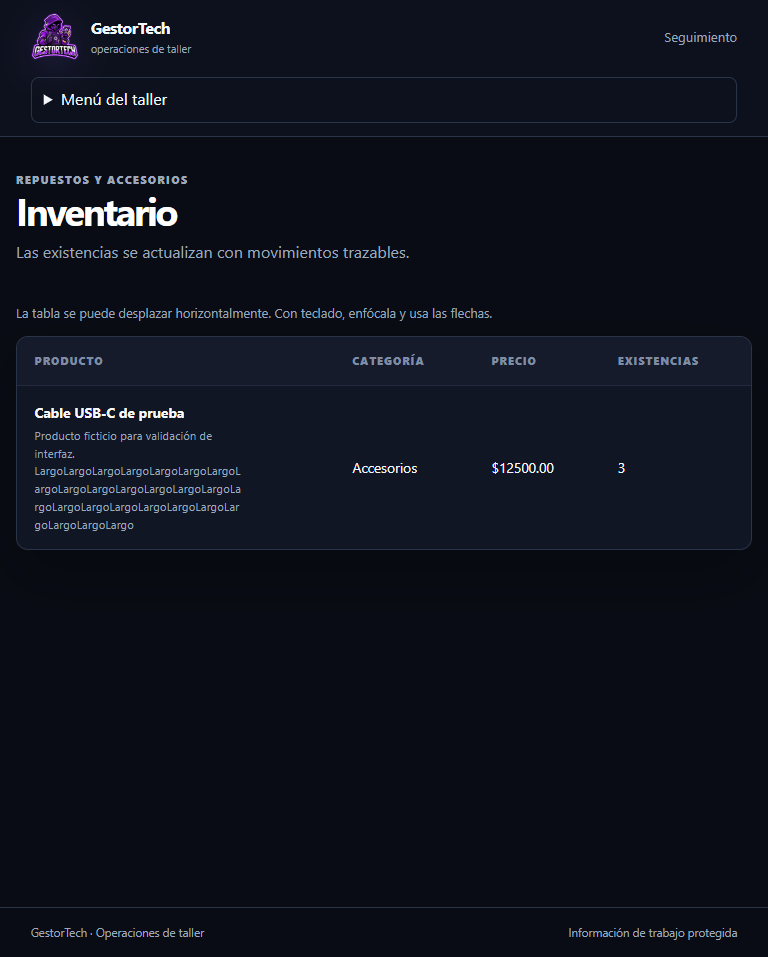
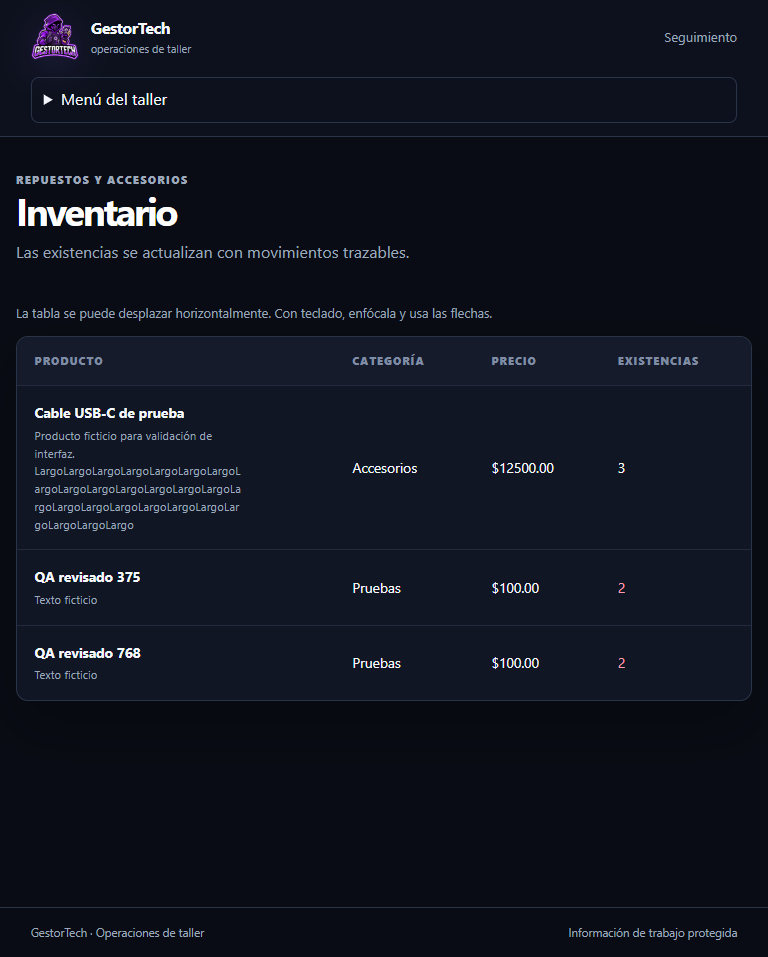
test: verify integrated assistant and repair UI in browser

diff --git a/app/templates/repair_form.html b/app/templates/repair_form.html
@@ -2,15 +2,15 @@
 {% block title %}Nueva reparación · GestorTech{% endblock %}
 {% block content %}
 <section class="page-heading"><div><p class="eyebrow">Servicio técnico</p><h1>Registrar reparación</h1><p>El sistema generará un código privado para que el cliente consulte el avance.</p></div></section>
-<form class="form-panel narrow" method="post">
+<form class="form-panel narrow" method="post" aria-describedby="form-feedback">
   <input type="hidden" name="_csrf_token" value="{{ csrf_token() }}">
-  <label for="device">Equipo</label><input id="device" name="device" required maxlength="160" placeholder="Ej. Portátil Lenovo ThinkPad">
-  <label for="issue">Problema reportado</label><textarea id="issue" name="issue" rows="4" required maxlength="2000" placeholder="Describe el motivo de ingreso"></textarea>
+  <label for="device">Equipo</label><input id="device" name="device" required maxlength="160" placeholder="Ej. Portátil Lenovo ThinkPad" value="{{ request.form.get('device','') }}">
+  <label for="issue">Problema reportado</label><textarea id="issue" name="issue" rows="4" required maxlength="2000" placeholder="Describe el motivo de ingreso">{{ request.form.get('issue','') }}</textarea>
   {% if current_user()['role']=='admin' %}
   <label for="assigned_to">Técnico responsable</label>
   <select id="assigned_to" name="assigned_to" required {% if not technicians %}disabled aria-describedby="technician-help"{% endif %}>
-    <option value="" disabled selected>Selecciona un técnico</option>
-    {% for technician in technicians %}<option value="{{ technician.id }}">{{ technician.name }}</option>{% endfor %}
+    <option value="" disabled {% if not request.form.get('assigned_to') %}selected{% endif %}>Selecciona un técnico</option>
+    {% for technician in technicians %}<option value="{{ technician.id }}" {% if request.form.get('assigned_to') == technician.id|string %}selected{% endif %}>{{ technician.name }}</option>{% endfor %}
   </select>
   {% if not technicians %}<p id="technician-help" class="callout">Necesitas un técnico activo para registrar una reparación. <a href="{{ url_for('web.user_new') }}">Crear técnico</a></p>{% endif %}
   {% else %}<p class="callout">La reparación quedará asignada a tu usuario técnico.</p>{% endif %}

diff --git a/docs/issues/14-interfaz.md b/docs/issues/14-interfaz.md
@@ -5,7 +5,7 @@
 - La navegación del personal permanece disponible en móvil y tablet mediante un menú nativo `details/summary`, operable con teclado. Reutiliza los enlaces y condiciones de rol del escritorio e incluye cierre de sesión con CSRF.
 - La navegación pública mantiene Catálogo, Seguimiento y Acceso del personal en pantallas estrechas, con ajuste de líneas y estado de página actual.
 - Las tablas de inventario e importación tienen nombre de región, foco por teclado, encabezados semánticos y ayuda para desplazamiento horizontal. El dashboard mantiene su región accesible.
-- Los formularios de alta/edición de productos, creación de usuario y login conservan campos no secretos tras rechazo del backend. Las contraseñas permanecen vacías. Los mensajes de error reciben foco y están asociados al formulario; seguimiento conserva el código y relaciona ayuda/error con el campo.
+- Los formularios de alta/edición de productos, reparación, creación de usuario y login conservan campos no secretos tras rechazo del backend. La reparación conserva su técnico seleccionado y mantiene la asignación obligatoria. Las contraseñas permanecen vacías. Los mensajes de error reciben foco y están asociados al formulario; seguimiento conserva el código y relaciona ayuda/error con el campo.
 - Se ajustaron textos secundarios y el hover del botón principal para mejorar contraste. Los controles pequeños conservan un área vertical de 44 px en móvil/tablet; las cadenas largas no desbordan la pantalla.
 - `prefers-reduced-motion` elimina transiciones/animaciones y el desplazamiento del botón al hacer hover. La mascota local conserva `object-fit: contain` y su archivo original.
 
@@ -27,7 +27,7 @@ Se ejecutó Chromium de Microsoft Edge en modo headless con Playwright disponibl
 
 También se verificó en navegador la despublicación/publicación del producto ficticio y el estado vacío del catálogo.
 
-La suite de regresión de esta base pasó: **46 pruebas y 40 subtests en 32,88 s**, con `python -B -m pytest -q -p no:cacheprovider`. La ejecución local utilizó Python 3.12.14 incluido en el entorno de herramientas con las dependencias existentes del proyecto; el stack aprobado sigue siendo Python 3.11 y su verificación corresponde a CI.
+Antes de integrar los demás issues, la suite de regresión de la base de catálogo pasó: **46 pruebas y 40 subtests en 32,88 s**, con `python -B -m pytest -q -p no:cacheprovider`. La ejecución local utilizó Python 3.12.14 incluido en el entorno de herramientas con las dependencias existentes del proyecto; el stack aprobado sigue siendo Python 3.11 y su verificación corresponde a CI.
 
 Se midieron colores computados del navegador mediante luminancia relativa: botón principal **4,61:1**, hover **5,28:1**, encabezados de tabla **5,06:1**, pie **8,15:1**, etiqueta lateral **7,85:1** y pasos pendientes **7,52:1**. Valores completos en [contraste.json](../evidencias/issue-14/contraste.json). Estas mediciones cubren los pares seleccionados, no certifican toda la interfaz.
 
@@ -43,8 +43,36 @@ Se midieron colores computados del navegador mediante luminancia relativa: botó
 
 ![Error de producto con valores conservados](../evidencias/issue-14/error-producto-375.png)
 
-## Alcance y pendientes de integración
+## Verificación integrada de reparaciones y asistente
 
-La validación se realizó sobre la base que incluye catálogo. El asistente se inspeccionó en su estado desactivado; la vista nueva del issue #7 debe volver a comprobarse después de integrarla con este cambio. El formulario de reparación del issue #5 se integra por separado para conservar su selección obligatoria de técnico.
+Después de integrar los issues #5, #10, #12 y #7 se repitió la validación en navegador en **375, 768 y 1440 px**. Los límites de intentos permanecieron activos; se utilizaron sesiones ficticias de admin/técnico. El formulario de reparación conserva el problema reportado y el técnico válido después de un rechazo, mantiene `required` y enfoca el mensaje del backend.
 
-No se verificaron lectores de pantalla, dispositivos físicos ni todos los pares de contraste. No se instalaron paquetes, se leyó `.env` ni se conectó Groq. El navegador de prueba y los datos temporales no usan la sesión del usuario.
+| Flujo del asistente | Resultado en los tres anchos |
+|---|---|
+| IA desactivada: adjuntar CSV, filtrar palabras, editar vista previa y aprobar manualmente | PASS |
+| Producto importado aparece en inventario pero no se publica automáticamente | PASS |
+| Datos incompletos de proveedor simulado producen aclaración sin propuesta ejecutable | PASS |
+| Propuesta editable: etiquetas, orden de Tab y foco de teclado visibles | PASS |
+| Ningún producto persiste antes de confirmar; se guardan los valores corregidos | PASS |
+| Fallo de red simulado en confirmación: controles vuelven a habilitarse y reintento correcto | PASS |
+| Cancelar propuesta no modifica productos; una confirmación correcta deshabilita sus controles | PASS |
+| Técnico puede consultar y no ve carga de archivos ni controles de mutación | PASS |
+| Sin desbordamiento horizontal, errores JavaScript sin capturar ni transiciones con movimiento reducido | PASS |
+
+Las respuestas del chat fueron generadas por un proveedor de prueba local explícito. Esto valida interacción, contrato y persistencia de la aplicación; no acredita la calidad semántica de Groq ni implica una conexión externa.
+
+![Asistente manual móvil](../evidencias/issue-14/asistente-manual-375.png)
+
+![Asistente manual de escritorio](../evidencias/issue-14/asistente-manual-1440.png)
+
+![Vista previa manual editable en móvil](../evidencias/issue-14/asistente-preview-375.png)
+
+![Propuesta editable con proveedor simulado en móvil](../evidencias/issue-14/asistente-propuesta-375.png)
+
+![Propuesta editable con proveedor simulado en escritorio](../evidencias/issue-14/asistente-propuesta-1440.png)
+
+![Consulta del técnico con proveedor simulado](../evidencias/issue-14/asistente-tecnico-375.png)
+
+## Límites
+
+No se verificaron lectores de pantalla, dispositivos físicos ni todos los pares de contraste. No se instalaron paquetes ni se leyó `.env`; tampoco se conectó Groq. El navegador de prueba y los datos temporales no usan la sesión del usuario.

diff --git a/PROJECT_STATUS.md b/PROJECT_STATUS.md
@@ -9,7 +9,7 @@ Controles implementados en la propuesta de cambio: límites persistentes para lo
 ## Implementado
 
 - Issue #5: selección obligatoria de técnico activo, autoasignación para técnicos y protección SQLite; productos únicos por nombre/categoría normalizados, con control de concurrencia. Migración con preflight y rollback verificada solo sobre bases ficticias. Evidencia y límites en [docs/issues/5-integridad.md](docs/issues/5-integridad.md); validación CI en Python 3.11 pendiente.
-- Issue #14: navegación móvil por rol con logout, tablas accesibles, foco de errores y recuperación de campos no secretos; verificación real con Edge headless en 375/768/1440 px y contraste medido. Capturas y alcance en [docs/issues/14-interfaz.md](docs/issues/14-interfaz.md); pendiente repetir los flujos nuevos del #7 tras la integración.
+- Issue #14: navegación móvil por rol con logout, tablas accesibles, foco de errores y recuperación de campos no secretos; verificación real con Edge headless en 375/768/1440 px y contraste medido. La revisión integrada incluye formulario de reparación y asistente manual/con proveedor simulado: carga local, vista previa editable, aclaración, confirmación, cancelación y reintento tras error de red. Capturas y límites en [docs/issues/14-interfaz.md](docs/issues/14-interfaz.md).
 
 - Issue #10: catálogo público con publicación/despublicación administrativa explícita, productos nuevos ocultos y consulta limitada a campos comerciales. Detalles y validación: `docs/issues/10-catalogo.md`. Pendiente validación integrada/CI antes de cierre.
 
